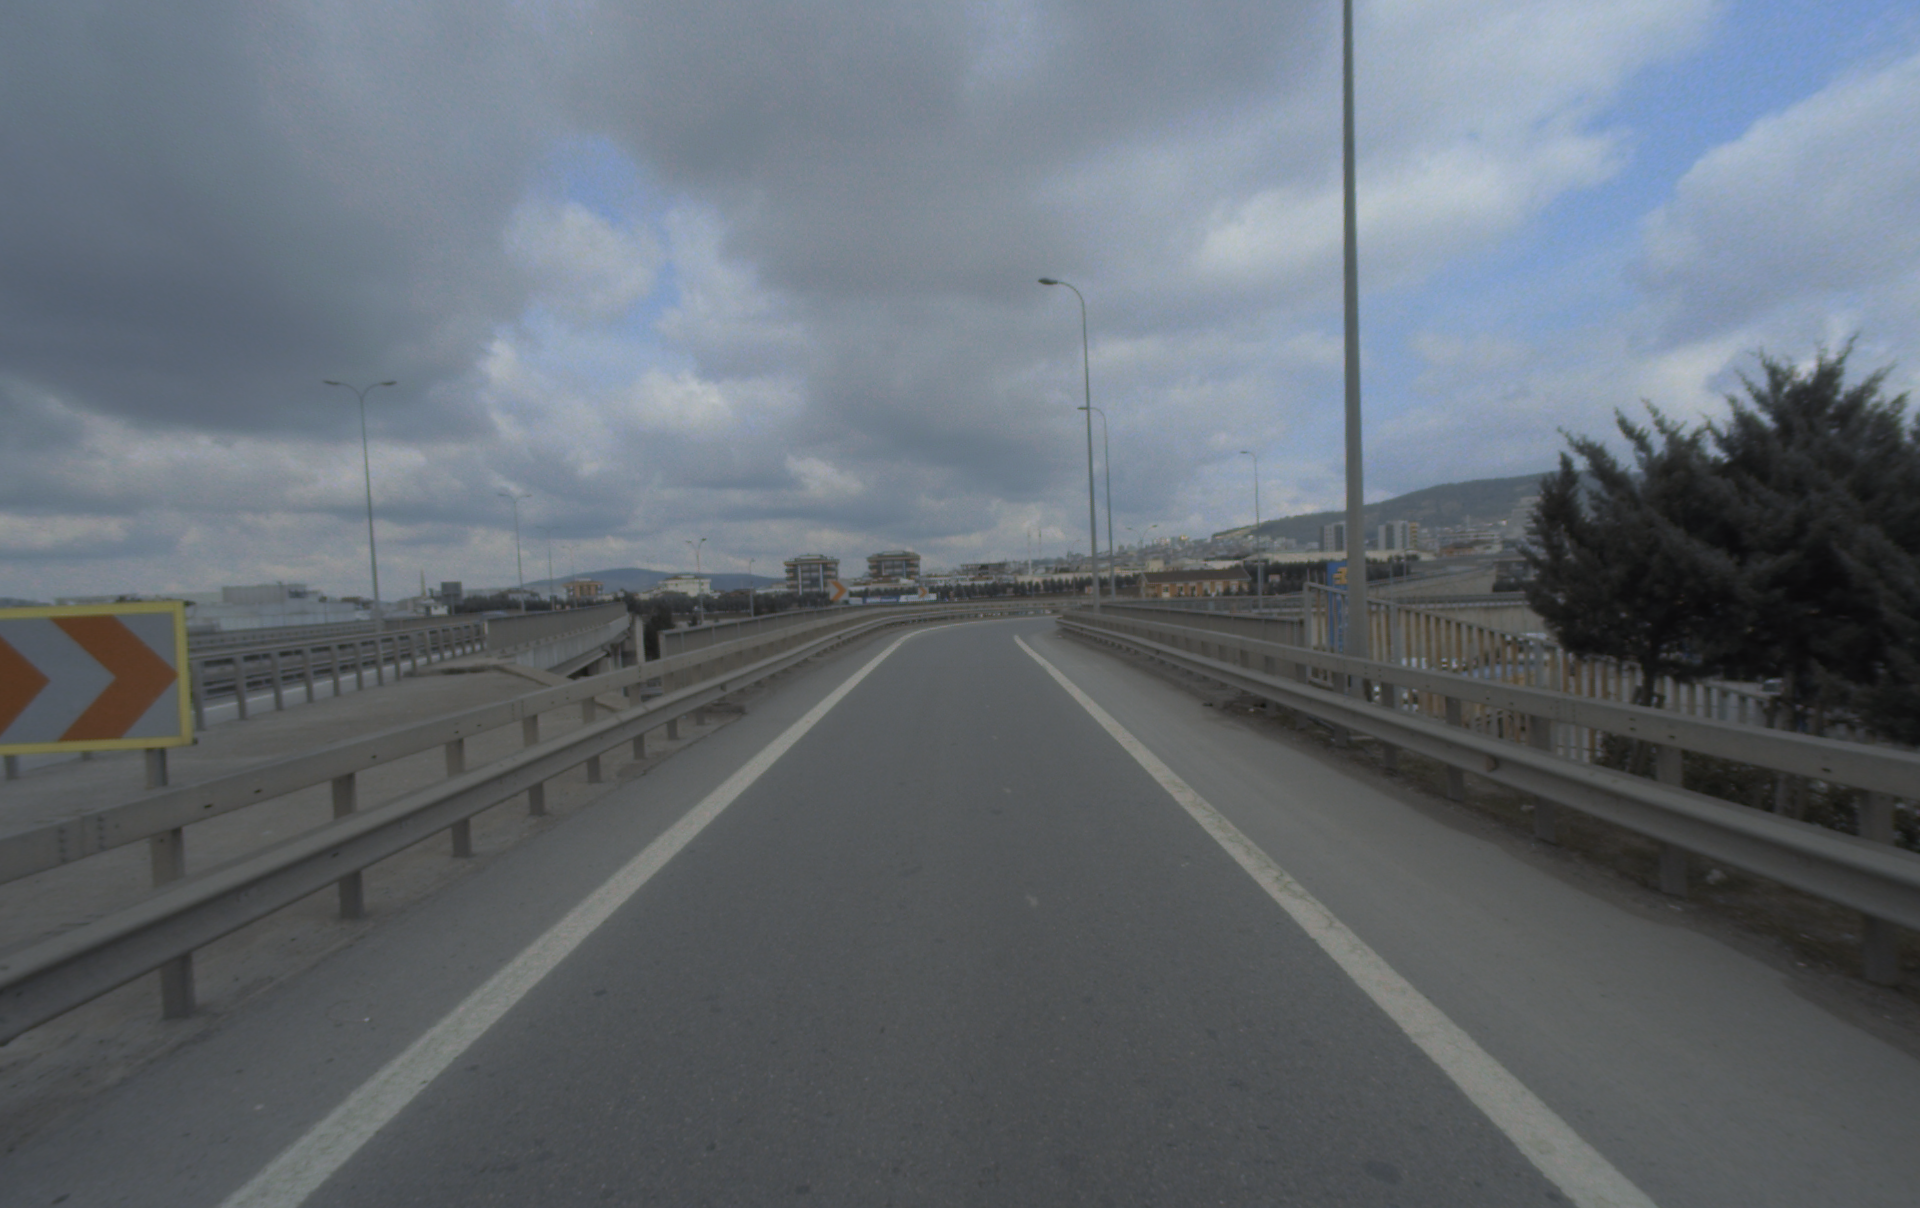
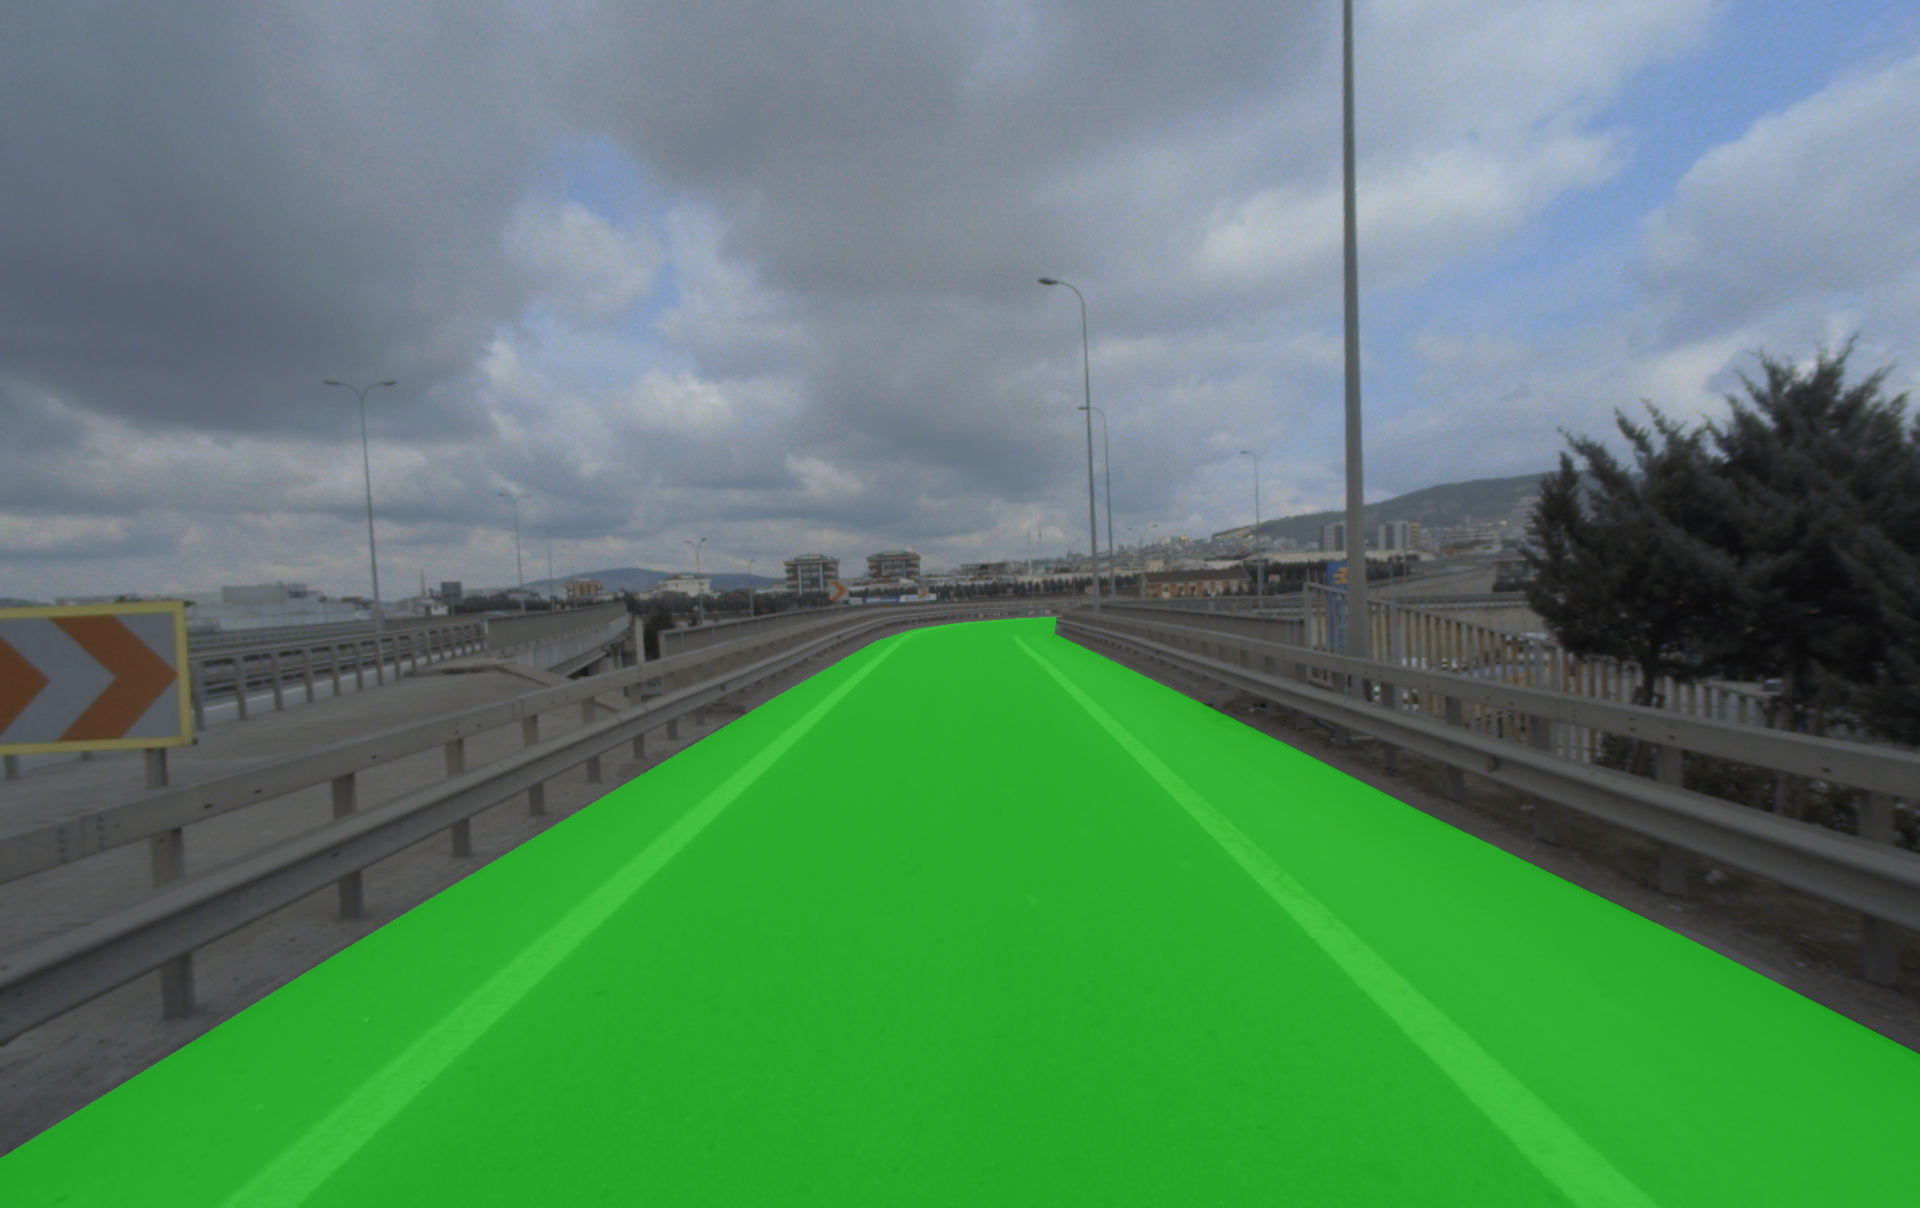
updated

Changed region(s): [[0.0, 0.4901, 1.0, 1.0]]

diff --git a/src/mask_on_image.py b/src/mask_on_image.py
@@ -34,7 +34,8 @@ for mask_name in tqdm.tqdm(mask_list):
     # to the mask part and create new image
 
     cpy_image = image.copy()
-    image[mask==1, :]=(255,0,0)
+
+    image[mask==100, :]=(0,255,0)
     opac_image=(image/2+cpy_image/2).astype(np.uint8)
 
     # Write output image into IMAGE_OUT_DIR folder
